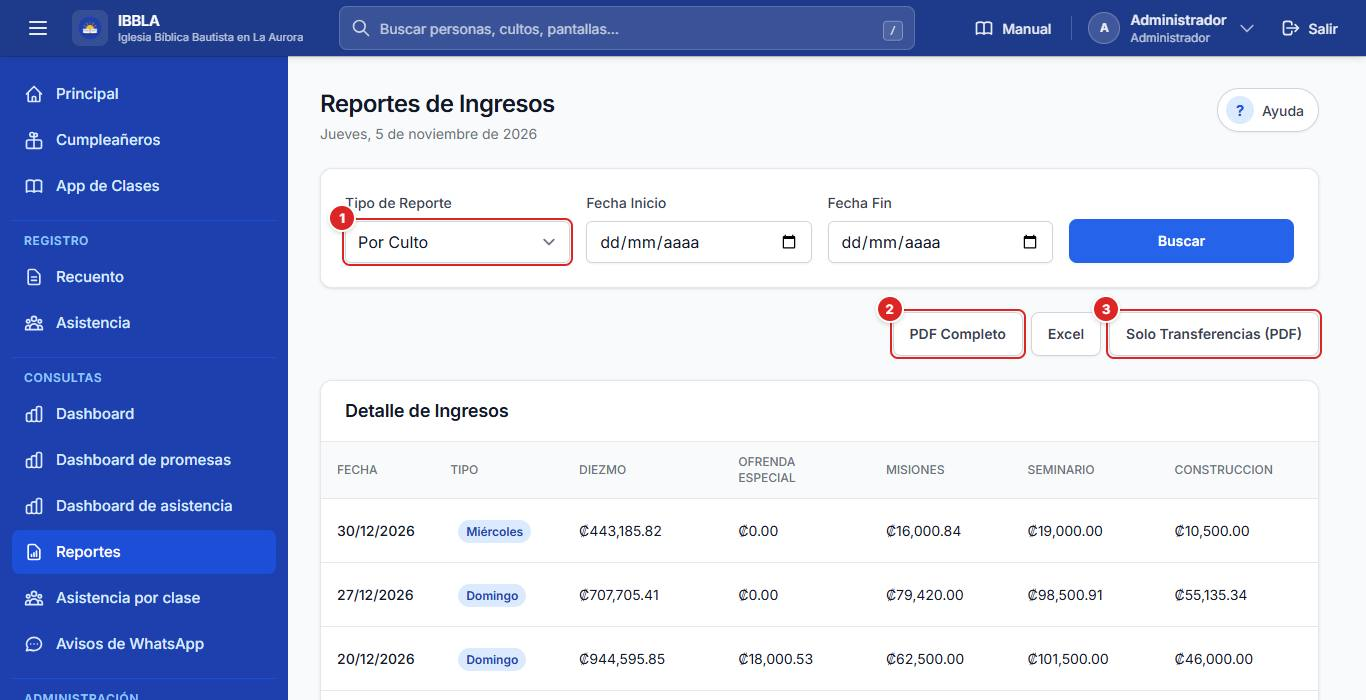
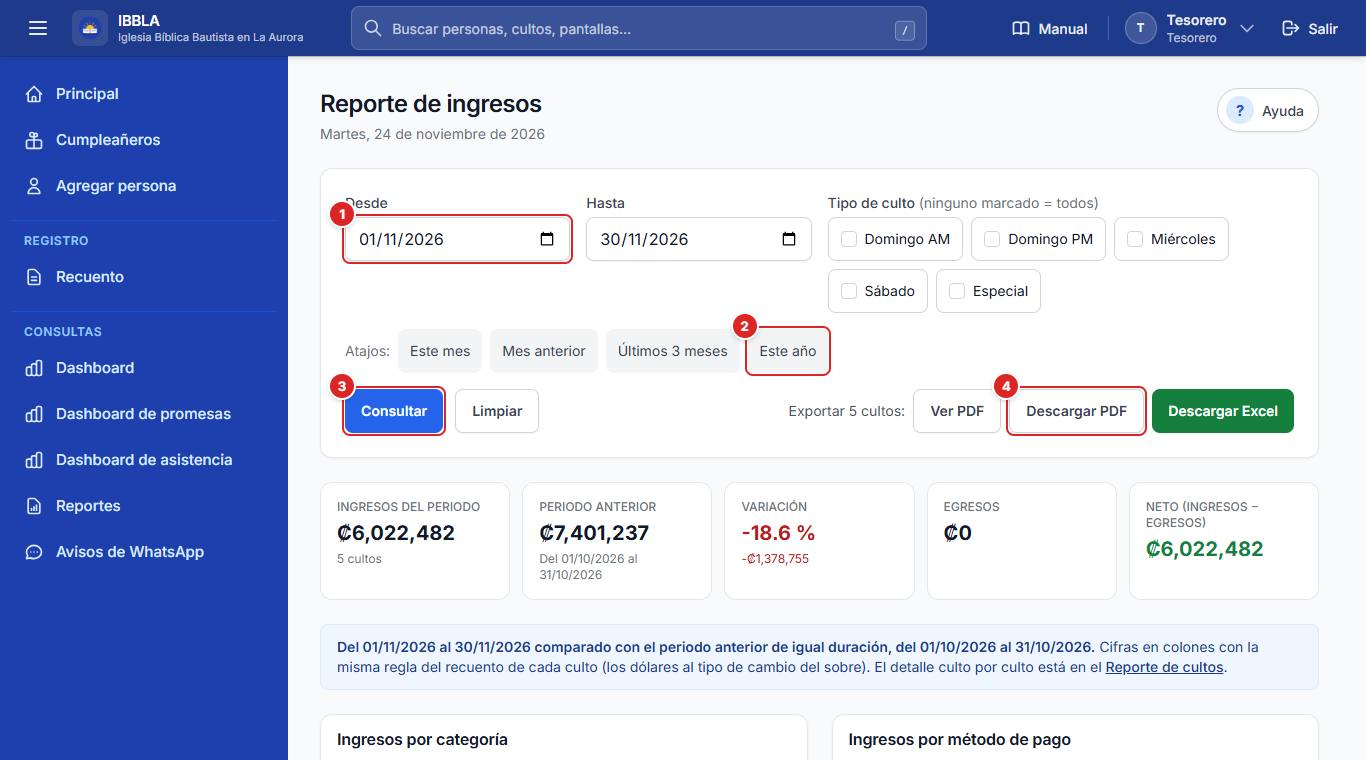
QA-G11: manual de Reportes con reporte de cultos, reporte de ingresos, selector de personas, vista previa y asistencia para el tesorero

diff --git a/resources/views/manual/paginas/07-reportes.md b/resources/views/manual/paginas/07-reportes.md
@@ -2,74 +2,114 @@
 titulo: Reportes
 orden: 70
 icono: reporte
-resumen: Sacar reportes de ingresos, asistencia (por culto y por clase) y estados de cuenta, en pantalla, PDF o Excel.
+resumen: Sacar reportes de cultos, ingresos, asistencia (por culto y por clase), cumplimiento de promesas y estados de cuenta, en pantalla, PDF o Excel.
 roles: admin, tesorero, asistente
-rutas: ingresos-asistencia.*, reportes.*, reportes.cumplimiento*#cumplimiento-de-promesas-con-corte, reportes.estados-cuenta*#estados-de-cuenta-en-lote, ingresos-asistencia.ingresos#reporte-de-ingresos, ingresos-asistencia.asistencia#reporte-de-asistencia, ingresos-asistencia.asistencia-clases*#asistencia-por-clase-con-promedio
-palabras: cumplimiento de promesas, al día, corte, estados de cuenta en lote, lote, zip, reportes, informes, ingresos, asistencia por clase, promedio, estado de cuenta, pdf, excel, csv, transferencias, descargar, rango de fechas, reporte general, dado contra esperado
+rutas: ingresos-asistencia.*, reportes.*, reportes.cumplimiento*#cumplimiento-de-promesas-con-corte, reportes.estados-cuenta*#estados-de-cuenta-en-lote, reportes.cultos*#reporte-de-cultos, reportes.ingresos*#reporte-de-ingresos, ingresos-asistencia.ingresos#reporte-de-ingresos, ingresos-asistencia.asistencia#reporte-de-asistencia, ingresos-asistencia.asistencia-clases*#asistencia-por-clase-con-promedio
+palabras: cumplimiento de promesas, al día, corte, estados de cuenta en lote, lote, zip, reportes, informes, reporte de cultos, reporte de ingresos, ingresos, comparativo, periodo anterior, asistencia por clase, promedio, estado de cuenta, pdf, excel, csv, transferencias, descargar, rango de fechas, reporte general, dado contra esperado, selector de personas, vista previa, último aporte
 ---
 
 ## Para qué sirve
 
-Los **reportes** convierten lo registrado (sobres, asistencia, promesas) en cuadros listos para revisar, imprimir o compartir: en pantalla, en **PDF** y en **Excel**.
+Los **reportes** convierten lo registrado (sobres, asistencia, promesas) en cuadros listos para revisar, imprimir o compartir: en pantalla, en **PDF** y en **Excel**. Todos usan la misma plantilla (encabezado de la iglesia, periodo, resumen, totales y pie con la fecha de generación) y las mismas reglas de cálculo, así que las cifras coinciden entre un reporte y otro.
 
 ## Quién puede usarlo
 
 | Reporte | Quién |
 |---|---|
-| **Ingresos** y **Promesas** | Administrador, Tesorero |
-| **Asistencia** y **Asistencia por clase** | Administrador, Asistente |
-| **Cumplimiento de promesas**, **Estados de cuenta en lote**, **Reporte de contribuciones**, **Reporte General** y **Estado de cuenta** de una persona | Administrador, Tesorero |
+| **Reporte de cultos** y **Reporte de ingresos** | Administrador, Tesorero |
+| **Promesas**, **Cumplimiento de promesas**, **Estados de cuenta en lote**, **Reporte de contribuciones**, **Reporte General** y **Estado de cuenta** de una persona | Administrador, Tesorero |
+| **Asistencia por culto** y **Asistencia por clase** | Administrador, Asistente y Tesorero |
 | **Reporte de Servidores** | Administrador |
 
-El menú lateral solo muestra los que tu rol puede abrir. El Tesorero ve en **Reportes** las tarjetas de dinero (cumplimiento, estados de cuenta, Reporte General, contribuciones, Ingresos y Promesas); no necesita el módulo *Personas*. El Asistente entra directo al reporte de asistencia.
+El menú lateral solo muestra los que tu rol puede abrir. El Asistente entra directo al reporte de asistencia.
 
 ## Cómo llegar
 
-Menú lateral → **Consultas** → **Reportes**. Es el **centro de reportes** (la pantalla se titula **Ingresos y Asistencia**): una tarjeta por cada reporte que puedes abrir, con una línea de qué contiene y en qué formatos sale (pantalla, PDF, Excel). Desde cualquier pantalla llegas a cualquier reporte en dos clics.
+Menú lateral → **Consultas** → **Reportes**. Es el **centro de reportes** (la pantalla se titula **Ingresos y Asistencia**): una tarjeta por cada reporte que puedes abrir, con una línea de qué contiene y en qué formatos sale. Desde cualquier pantalla llegas a cualquier reporte en dos clics.
 
 ![Pantalla de reportes](img:reportes-indice.jpg "Cada tarjeta abre un reporte; abajo hay un resumen de la semana")
 
-## Reporte de ingresos
+| Tarjeta | Qué muestra | Formatos | Quién |
+|---|---|---|---|
+| **Cumplimiento de promesas** | Quién está al día y quién debe, con fecha de corte. | Pantalla, PDF y Excel | Administrador, Tesorero |
+| **Estados de cuenta en lote** | El estado de cuenta de muchas personas a la vez. | PDF, ZIP y Excel | Administrador, Tesorero |
+| **Reporte General** | Lo dado contra lo esperado de todas las personas activas. | PDF | Administrador, Tesorero |
+| **Reporte de contribuciones** | Contribuciones de todas las personas, de enero al mes actual. | PDF | Administrador, Tesorero |
+| **Reporte de cultos** | Cada culto de un rango: sobres, efectivo, transferencias, suelto, egresos y firmas, con totales por categoría y método de pago. | Pantalla, PDF y Excel | Administrador, Tesorero |
+| **Reporte de ingresos** | Ingresos de un rango por categoría y método de pago, comparados con el periodo anterior. (Reemplaza a la antigua tarjeta «Ingresos»; los enlaces viejos llevan a esta pantalla.) | Pantalla, PDF y Excel | Administrador, Tesorero |
+| **Promesas** | Promesas y compromisos por persona. | Pantalla, PDF y Excel | Administrador, Tesorero |
+| **Asistencia por culto** | Asistencia de cada culto en un rango de fechas y resumen por mes. | Pantalla, PDF y Excel | Administrador, Asistente, Tesorero |
+| **Asistencia por clase** | Niños, niñas, maestros y promedio por clase en un rango de fechas; una clase o todas. | Pantalla, PDF, CSV y Excel | Administrador, Asistente, Tesorero |
 
-Muestra lo recibido en los cultos de un período, con una columna por categoría.
+## Los filtros de fechas (cultos e ingresos)
 
-![Reporte de ingresos](img:reportes-ingresos.jpg "Tipo de reporte y fechas (1), descargas (2) y detalle por culto (3)")
+El **Reporte de cultos** y el **Reporte de ingresos** comparten el mismo bloque de filtros.
+
+![Reporte de cultos](img:reportes-cultos.jpg "Desde y Hasta (1), atajos (2), Consultar (3) y descargas (4)")
 
 | Botón o control | Qué hace | Quién puede usarlo | Qué pasa después |
 |---|---|---|---|
-| **1. Tipo de Reporte, Fecha Inicio y Fecha Fin** | Elige agrupar **Por Culto**, **Por Semana** o **Por Mes** y el rango de fechas. | Administrador, Tesorero | La tabla se arma con ese período. |
-| **2. PDF Completo / Excel / Solo Transferencias (PDF)** | Descarga el reporte. **Solo Transferencias** incluye solo los sobres pagados por transferencia. | PDF: Administrador y Tesorero. Excel: por ahora solo el Administrador | Se abre en otra pestaña o se descarga el archivo. Si eres Tesorero y el Excel te dice que no tienes permiso, usa el PDF. |
-| **3. Detalle de Ingresos** | Una fila por culto con su total y las acciones **Recuento** y **Transferencias**. | Administrador, Tesorero | Cada acción baja el PDF de ese culto. |
+| **1. Desde y Hasta** | Fijan el rango de fechas. | Administrador, Tesorero | Se recalcula el reporte con ese rango. |
+| **Tipo de culto (ninguno marcado = todos)** | Una casilla por tipo de culto. | Administrador, Tesorero | Solo entran los cultos de los tipos marcados. |
+| **2. Atajos** | **Este mes**, **Mes anterior**, **Últimos 3 meses**, **Este año**. | Administrador, Tesorero | Aplican el rango de un toque. |
+| **3. Consultar / Limpiar** | **Consultar** aplica los filtros; **Limpiar** vuelve al mes actual con todos los tipos. | Administrador, Tesorero | La pantalla se actualiza. |
+| **4. Ver PDF, Descargar PDF, Descargar Excel** | Sacan el reporte con los mismos filtros (la etiqueta dice «Exportar N cultos»). | Administrador, Tesorero | **Ver PDF** lo abre en otra pestaña; los otros dos descargan el archivo. |
+
+> **Importante:** el rango máximo es de **un año**. Si eliges más, el reporte muestra solo un año y te avisa («El rango máximo es de un año…»). Para más tiempo, saca un reporte por año.
+
+## Reporte de cultos
+
+Cada culto del rango, con lo que se recibió y gastó en él.
+
+- **Elegir cultos:** el desplegable **Elegir cultos (todos los del rango)** te deja marcar solo los cultos que quieres; sin ninguno marcado salen todos los del rango. Cambia a «(N elegidos)».
+- **Tarjetas de resumen:** **Cultos**, **Sobres**, **Ingresos**, **Egresos**, **Total del rango** y **Sin firmas completas** (cuántos cultos no tienen firmadas todas las firmas del recuento).
+- **Tabla «Cultos (N)»:** **Fecha**, **Tipo**, **Estado**, **Sobres**, **Efectivo**, **Transferencias**, **Suelto**, **Egresos**, **Total** y **Firmas completas**, más los cuadros **Ingresos por categoría** e **Ingresos por método de pago**.
+- Si no hay cultos con esos filtros, la pantalla lo dice y sugiere ampliar las fechas (por ejemplo con el atajo **Este año**), quitar tipos o desmarcar cultos.
+- El **Excel** trae las hojas **Resumen** (una fila por culto y totales) y detalle; el **PDF** sale horizontal.
+
+## Reporte de ingresos
+
+Lo recibido en el rango, **comparado con el periodo anterior** de la misma duración.
+
+![Reporte de ingresos](img:reportes-ingresos.jpg "Desde y Hasta (1), atajos (2), Consultar (3) y descargas (4), con los mismos filtros que el reporte de cultos")
+
+- **Tarjetas:** **Ingresos del periodo**, **Periodo anterior**, **Variación**, **Egresos** y **Neto (ingresos − egresos)**.
+- **Tablas por categoría y por método de pago**, con las columnas **Concepto**, **Este periodo**, **Periodo anterior**, **Diferencia** y **Variación**. Si el periodo anterior no tuvo ingresos, la variación dice «sin datos antes».
+- Una nota azul enlaza al **Reporte de cultos** para ver el detalle culto por culto.
+- **PDF** y **Excel** (hojas **Resumen** y **Detalle**, una fila por culto).
 
 ## Reporte de asistencia
 
-Lista la asistencia por culto, con filtros de **Mes**, **Año** y rango de fechas, y botones **PDF** y **Excel** para todo el período. Abajo hay un resumen por mes con su propio PDF y Excel.
+Lista la asistencia por culto, con filtros de **Mes**, **Año** y rango de fechas, y botones **PDF** y **Excel** para todo el periodo (el Tesorero también los puede usar). Abajo hay un resumen por mes con su propio PDF y Excel. El enlace **Ver la asistencia por clase de estas fechas** abre el reporte por clase con el mismo rango. El PDF y el Excel llevan el formato común de los reportes.
 
 ## Asistencia por clase (con promedio)
 
-Elige un rango de fechas (**Desde** y **Hasta**) y, si quieres, una **Clase**. El reporte muestra niños, niñas y maestros de cada fecha y, al final, el **promedio** de la clase y el **promedio general**.
+Elige un rango de fechas (**Desde** y **Hasta**) y, si quieres, una **Clase**. El reporte muestra niños, niñas y maestros de cada fecha y, al final, el **promedio** de la clase y el **promedio general**. El enlace **Ver la asistencia por culto de estas fechas** abre el otro reporte con el mismo rango.
 
 ![Asistencia por clase](img:reportes-asistencia-clases.jpg "Rango y clase (1), descargas (2) y la tabla con promedios (3)")
 
 | Botón o control | Qué hace | Quién puede usarlo | Qué pasa después |
 |---|---|---|---|
-| **1. Desde, Hasta, Clase y Consultar** | Elige el rango y la clase. **Limpiar** vuelve a los últimos dos meses y todas las clases. | Administrador, Asistente | Se recalcula el reporte. |
-| **2. PDF / CSV / Excel** | Descarga el reporte **con el promedio ya calculado**. | Administrador, Asistente | Se descarga el archivo. |
-| **3. Tabla** | Una fila por fecha con niños, niñas, maestros y total; al final el **Promedio general**. | Administrador, Asistente | Abajo se listan las fechas sin registro. |
+| **1. Desde, Hasta, Clase y Consultar** | Elige el rango y la clase. **Limpiar** vuelve a los últimos dos meses y todas las clases. | Administrador, Asistente, Tesorero | Se recalcula el reporte. |
+| **2. PDF / CSV / Excel** | Descarga el reporte **con el promedio ya calculado**. | Administrador, Asistente, Tesorero | Se descarga el archivo. |
+| **3. Tabla** | Una fila por fecha con niños, niñas, maestros y total; al final el **Promedio general**. | Administrador, Asistente, Tesorero | Abajo se listan las fechas sin registro. |
 
 **Cómo se calcula el promedio:** suma de la clase en el rango ÷ fechas en que la clase tiene registro. Las fechas sin registro no bajan el promedio. Las fechas con todo en cero se tratan como «sin registro» (porque el formulario guarda ceros aunque la clase no se reúna); marca **Contar también las fechas en 0** si quieres incluirlas.
 
 ## Reporte de promesas
 
-Ver la página *Promesas*.
+Ver la página *Promesas*: ahí se explica el reporte de promesas y cómo trata el mes en curso.
 
 ## Cumplimiento de promesas (con corte)
 
 Dice, a una **fecha de corte**, quién va **al día** con sus promesas y quién tiene pendiente. Sale en pantalla, en **PDF** y en **Excel**. Lo ven el Administrador y el Tesorero.
 
-1. Elige **Personas** (ver «El selector de personas» más abajo) y la **Fecha de corte** (por defecto, hoy).
-2. Toca **Consultar**. Para volver al corte de hoy con todas las personas activas, **Limpiar**.
-3. Baja el **PDF** o el **Excel** con los mismos filtros.
+![Cumplimiento de promesas con su selector de personas y vista previa](img:reportes-cumplimiento.jpg "Fecha de corte (1), filtros de personas (2) y seleccionar todos los filtrados (3); la vista previa está más abajo")
+
+1. Elige la **Fecha de corte** (por defecto, hoy).
+2. Elige **Personas** con el selector (ver «El selector de personas» más abajo).
+3. Toca **Consultar**. Para volver al corte de hoy con todas las personas activas, **Limpiar**.
+4. Mira la **Vista previa** (ver abajo) y baja el **PDF** o el **Excel** con los mismos filtros.
 
 **Cómo se calcula:**
 
@@ -77,6 +117,7 @@ Dice, a una **fecha de corte**, quién va **al día** con sus promesas y quién 
 - La persona está **AL DÍA** si lo **dado ≥ le corresponde**; si no, muestra lo que le **falta**.
 - Solo cuentan las **categorías con promesa**. El **diezmo** se muestra pero **no cuenta** para el cumplimiento.
 - Lo dado en dólares se **convierte** a colones con el tipo de cambio del recuento.
+- La columna **Último aporte a sus compromisos** muestra la fecha del último sobre que cuenta para lo que la persona prometió (lo que dio en categorías sin promesa no cuenta).
 
 ## Estados de cuenta en lote
 
@@ -85,27 +126,48 @@ Genera el estado de cuenta de **muchas personas a la vez**, con la misma fecha d
 - **PDF:** un solo archivo con portada e índice y una persona por sección.
 - **ZIP:** un PDF por persona, hasta **40 personas** por descarga (si eliges más, el sistema te pide acotar la lista).
 - **Excel:** las personas del grupo en una hoja de cálculo.
+- Si el filtro no deja a nadie, el sistema avisa que no hay nada que exportar y te pide cambiar el grupo o la selección.
 
 ### El selector de personas
 
-Sirve igual en Cumplimiento y en Estados de cuenta:
+Sirve igual en Cumplimiento y en Estados de cuenta. Los filtros se **combinan**: la lista incluye solo a quien cumple todos.
 
-| Opción | Qué incluye |
-|---|---|
-| **Todas las activas** | Todas las personas activas. |
-| **Con promesa** | Solo quienes tienen alguna promesa. |
-| **Por ministerio** | Los miembros de un ministerio, o «Cualquier ministerio (servidores)». |
-| **Elegir personas** | Las que busques y marques; aparecen como etiquetas que puedes quitar. |
+| Control | Qué hace | Quién puede usarlo | Qué pasa después |
+|---|---|---|---|
+| **Estado** | **Activas**, **Inactivas** o **Activas e inactivas**. | Administrador, Tesorero | La lista y el contador se ajustan. |
+| **Con promesa** | **Todas**, **Sí, con promesa** o **No, sin promesa**. | Administrador, Tesorero | Igual. |
+| **Aportó en el periodo** | **Todas**, **Sí aportó** o **No aportó** (en el periodo del reporte). | Administrador, Tesorero | Igual. |
+| **Ministerios** | Casillas por ministerio (**Cualquier ministerio**; ninguno marcado = no filtrar). Con más de 12 aparece **Buscar ministerio**. | Administrador, Tesorero | Solo quienes sirven en los ministerios marcados. |
+| **Buscar en la lista (nombre, PIN o teléfono)** | Encuentra a una persona; **Enter** agrega a la primera de la lista. | Administrador, Tesorero | Queda elegida (aparece como etiqueta que puedes quitar). |
+| **Elegir las N de la lista** | Marca de una vez todas las personas que se ven. **Mostrar 50 más** carga más filas. | Administrador, Tesorero | Quedan elegidas. |
+| **Seleccionar todos los filtrados** | Elige a **todas** las personas que cumplen los filtros, aunque no se vean en la lista. | Administrador, Tesorero | El contador dice **N personas seleccionadas**. |
+| **Quitar todos** | Deja la selección vacía. | Administrador, Tesorero | Sin nadie elegido a mano, el reporte incluye a **todas las que cumplen los filtros** (el aviso lo dice). |
+
+El **contador** («N personas seleccionadas») y los avisos te dicen siempre a cuántas personas va a llegar el reporte: por ejemplo «No eligió a nadie a mano: el reporte incluye a las N personas que cumplen los filtros».
+
+### La vista previa
+
+Debajo del selector, la **Vista previa** muestra a las personas del reporte antes de bajarlo.
+
+- **Toque un título de columna para ordenar** (otro toque invierte el orden).
+- Las pestañas **Todos**, **Pendientes**, **Al día** y **Sin promesa** limitan lo que ves.
+- Se pagina con **Anterior**, los números y **Siguiente**, y dice «Filas X a Y de Z».
+- La fila de totales («Total con promesa (N personas, todas las páginas)») suma **todas las páginas**, no solo la que ves.
 
 ## Reportes de dinero por persona
 
-Estos tres también salen del centro de reportes, para Administrador y Tesorero:
+Estos también salen del centro de reportes, para Administrador y Tesorero:
 
 - **Reporte General:** el «dado contra esperado» de todas las personas activas, de enero al mes actual (PDF).
 - **Reporte de contribuciones:** las contribuciones de todas las personas, de enero al mes actual (PDF).
 - **Estado de cuenta de una persona:** el icono del documento en su renglón de **Gestionar Personas** (o **Estado de cuenta** en su ficha) abre su PDF; **Descargar** lo guarda.
+
 ## Preguntas frecuentes
 
 **El PDF no se abre.** Revisa que tu navegador no esté bloqueando ventanas emergentes: los PDF se abren en otra pestaña.
 
 **No veo el reporte que busco.** Tu rol no lo usa. Búscalo por su nombre en el buscador de la barra superior: solo aparece lo que puedes abrir.
+
+**El reporte de cultos o de ingresos no muestra todo el rango.** El máximo es un año; el aviso dice qué fechas se están mostrando.
+
+**El cumplimiento no cobra este mes.** Es a propósito: el mes en curso no se cobra todavía; lo que la persona ya dio en él sí cuenta.
